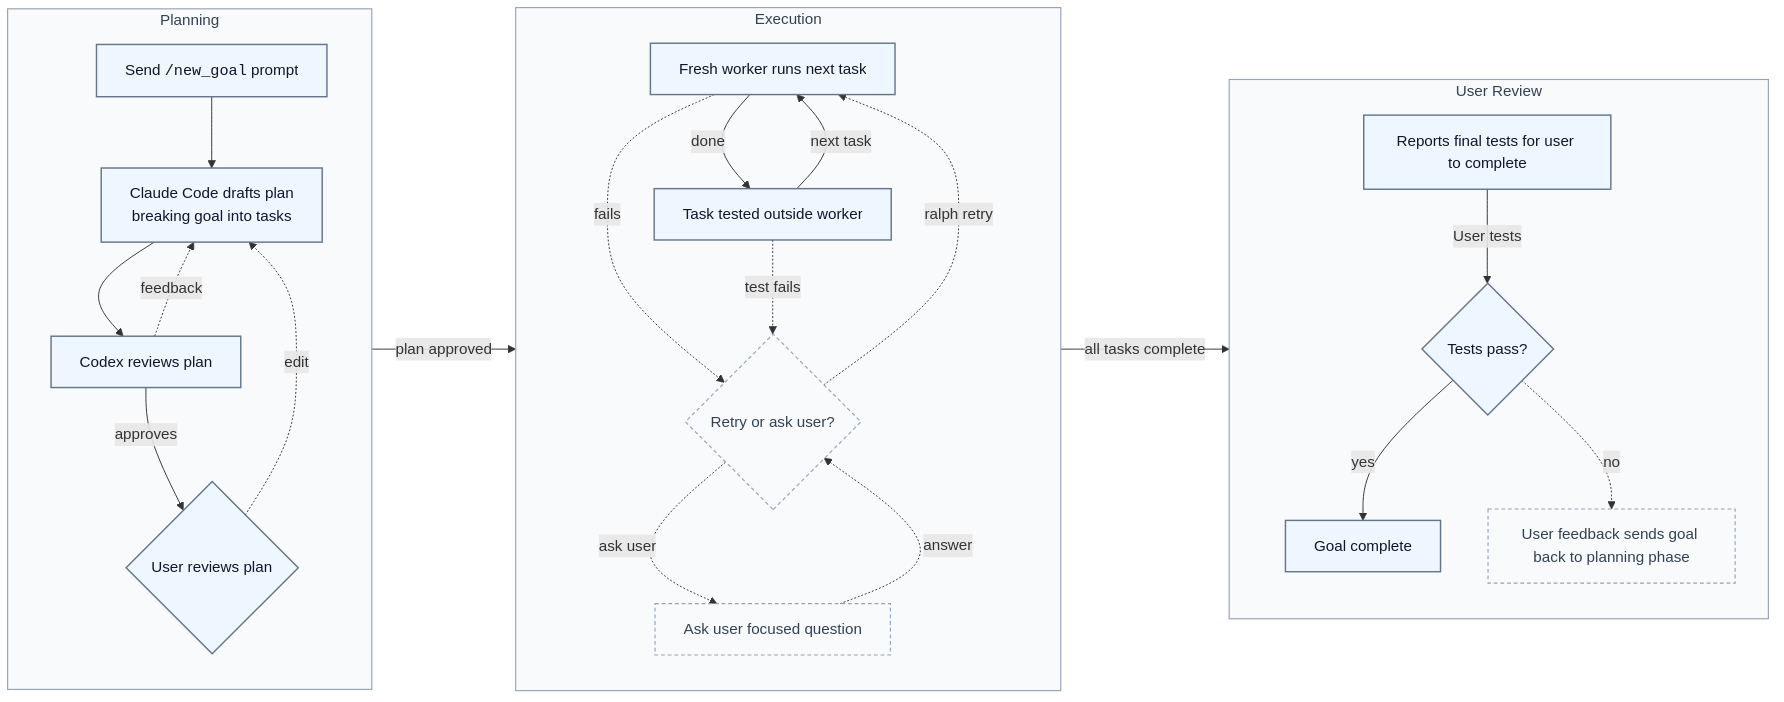
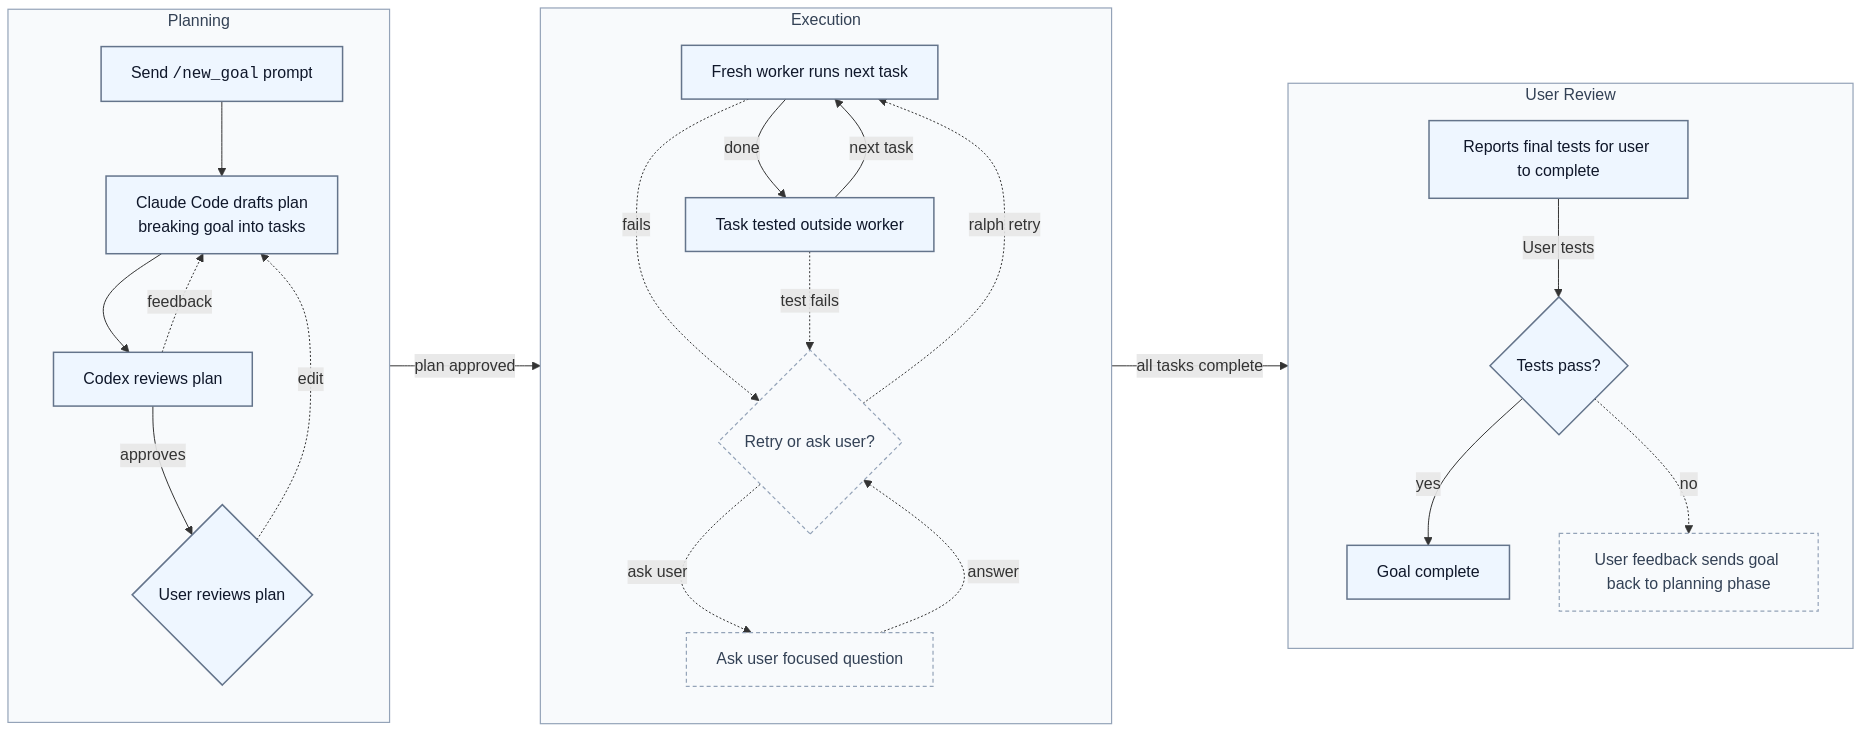
docs(readme): use operator three-subgraph flow diagram

diff --git a/README.md b/README.md
@@ -121,8 +121,7 @@ flowchart LR
 </details>
 
 - **Planning** starts from `/new_goal`: Claude Code drafts the plan, Codex reviews it, and the user approves or requests edits.
-- **Execution** runs one fresh worker per task, then SmithersBot runs the external test gate itself.
-- **Recovery** uses ralph-retry when an approach fails, or asks the user a focused Telegram question when operator input is needed.
+- **Execution** runs one fresh worker per task and tests it outside the worker; on failure SmithersBot ralph-retries or asks the user a focused Telegram question.
 - **User Review** reports final tests; passing tests complete the goal, while feedback sends the goal back to planning.
 
 ## Worker backends
